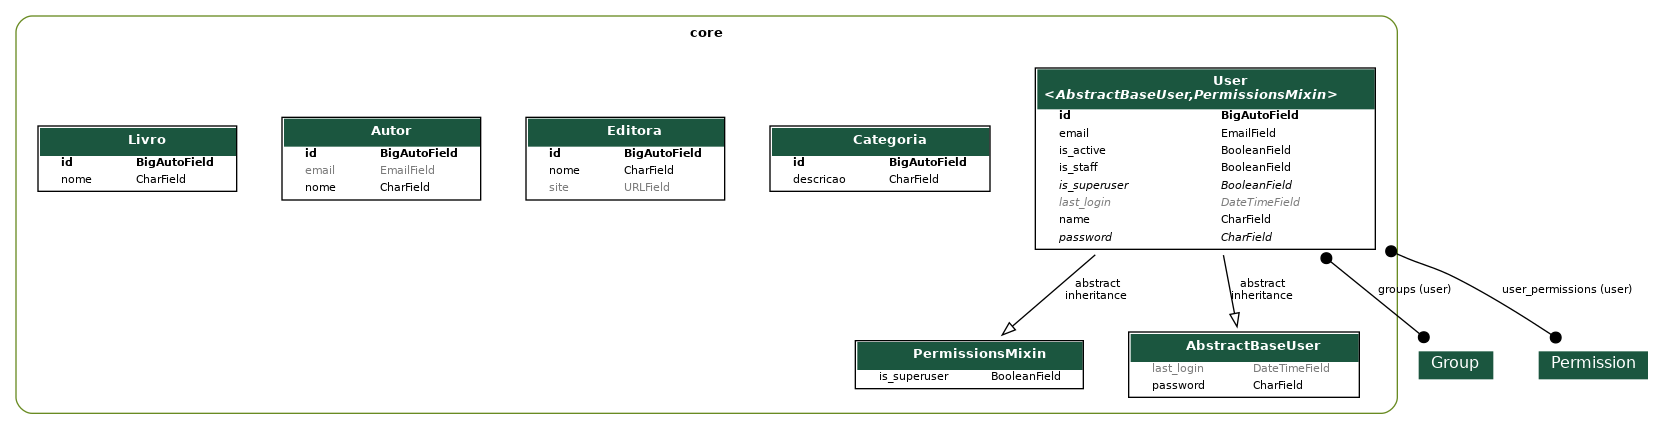
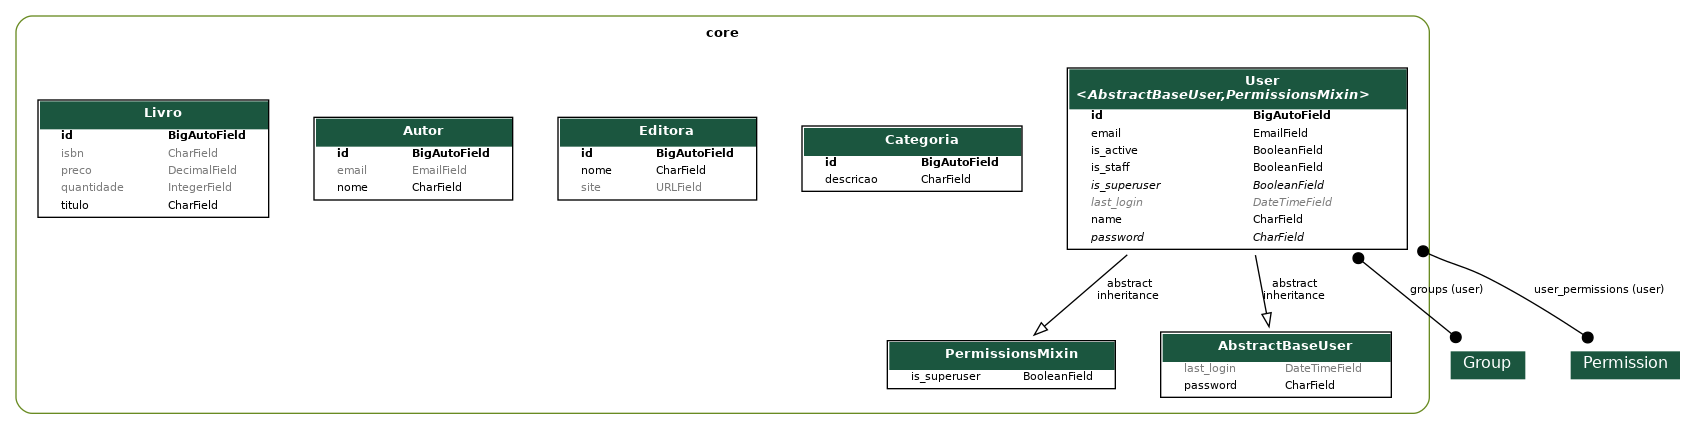
criação da entidade para Livro

diff --git a/core/migrations/0006_remove_livro_nome_livro_isbn_livro_preco_and_more.py b/core/migrations/0006_remove_livro_nome_livro_isbn_livro_preco_and_more.py
@@ -1,0 +1,32 @@
+# Generated by Django 5.0.2 on 2024-08-26 17:28
+
+from django.db import migrations, models
+
+
+class Migration(migrations.Migration):
+
+    dependencies = [
+        ("core", "0005_livro"),
+    ]
+
+    operations = [
+        migrations.RemoveField(
+            model_name="livro",
+            name="nome",
+        ),
+        migrations.AddField(
+            model_name="livro",
+            name="isbn",
+            field=models.CharField(blank=True, max_length=32, null=True),
+        ),
+        migrations.AddField(
+            model_name="livro",
+            name="preco",
+            field=models.DecimalField(blank=True, decimal_places=2, default=0, max_digits=7, null=True),
+        ),
+        migrations.AddField(
+            model_name="livro",
+            name="quantidade",
+            field=models.IntegerField(blank=True, default=0, null=True),
+        ),
+    ]

diff --git a/core/models/livro.py b/core/models/livro.py
@@ -1,7 +1,10 @@
 from django.db import models
 
 class Livro(models.Model):
-    nome = models.CharField(max_length=100)
+    titulo = models.CharField(max_length=255)
+    isbn = models.CharField(max_length=32, null=True, blank=True)
+    quantidade = models.IntegerField(default=0,  null=True, blank=True)
+    preco = models.DecimalField(max_digits=7, decimal_places=2, default=0, null=True, blank=True)
 
     def __str__(self):
-        return self.nome
+        return f"({self.id}) {self.titulo} ({self.quantidade})"

diff --git a/core/migrations/0007_livro_titulo.py b/core/migrations/0007_livro_titulo.py
@@ -1,0 +1,19 @@
+# Generated by Django 5.0.2 on 2024-08-26 17:52
+
+from django.db import migrations, models
+
+
+class Migration(migrations.Migration):
+
+    dependencies = [
+        ("core", "0006_remove_livro_nome_livro_isbn_livro_preco_and_more"),
+    ]
+
+    operations = [
+        migrations.AddField(
+            model_name="livro",
+            name="titulo",
+            field=models.CharField(default=1, max_length=255),
+            preserve_default=False,
+        ),
+    ]
